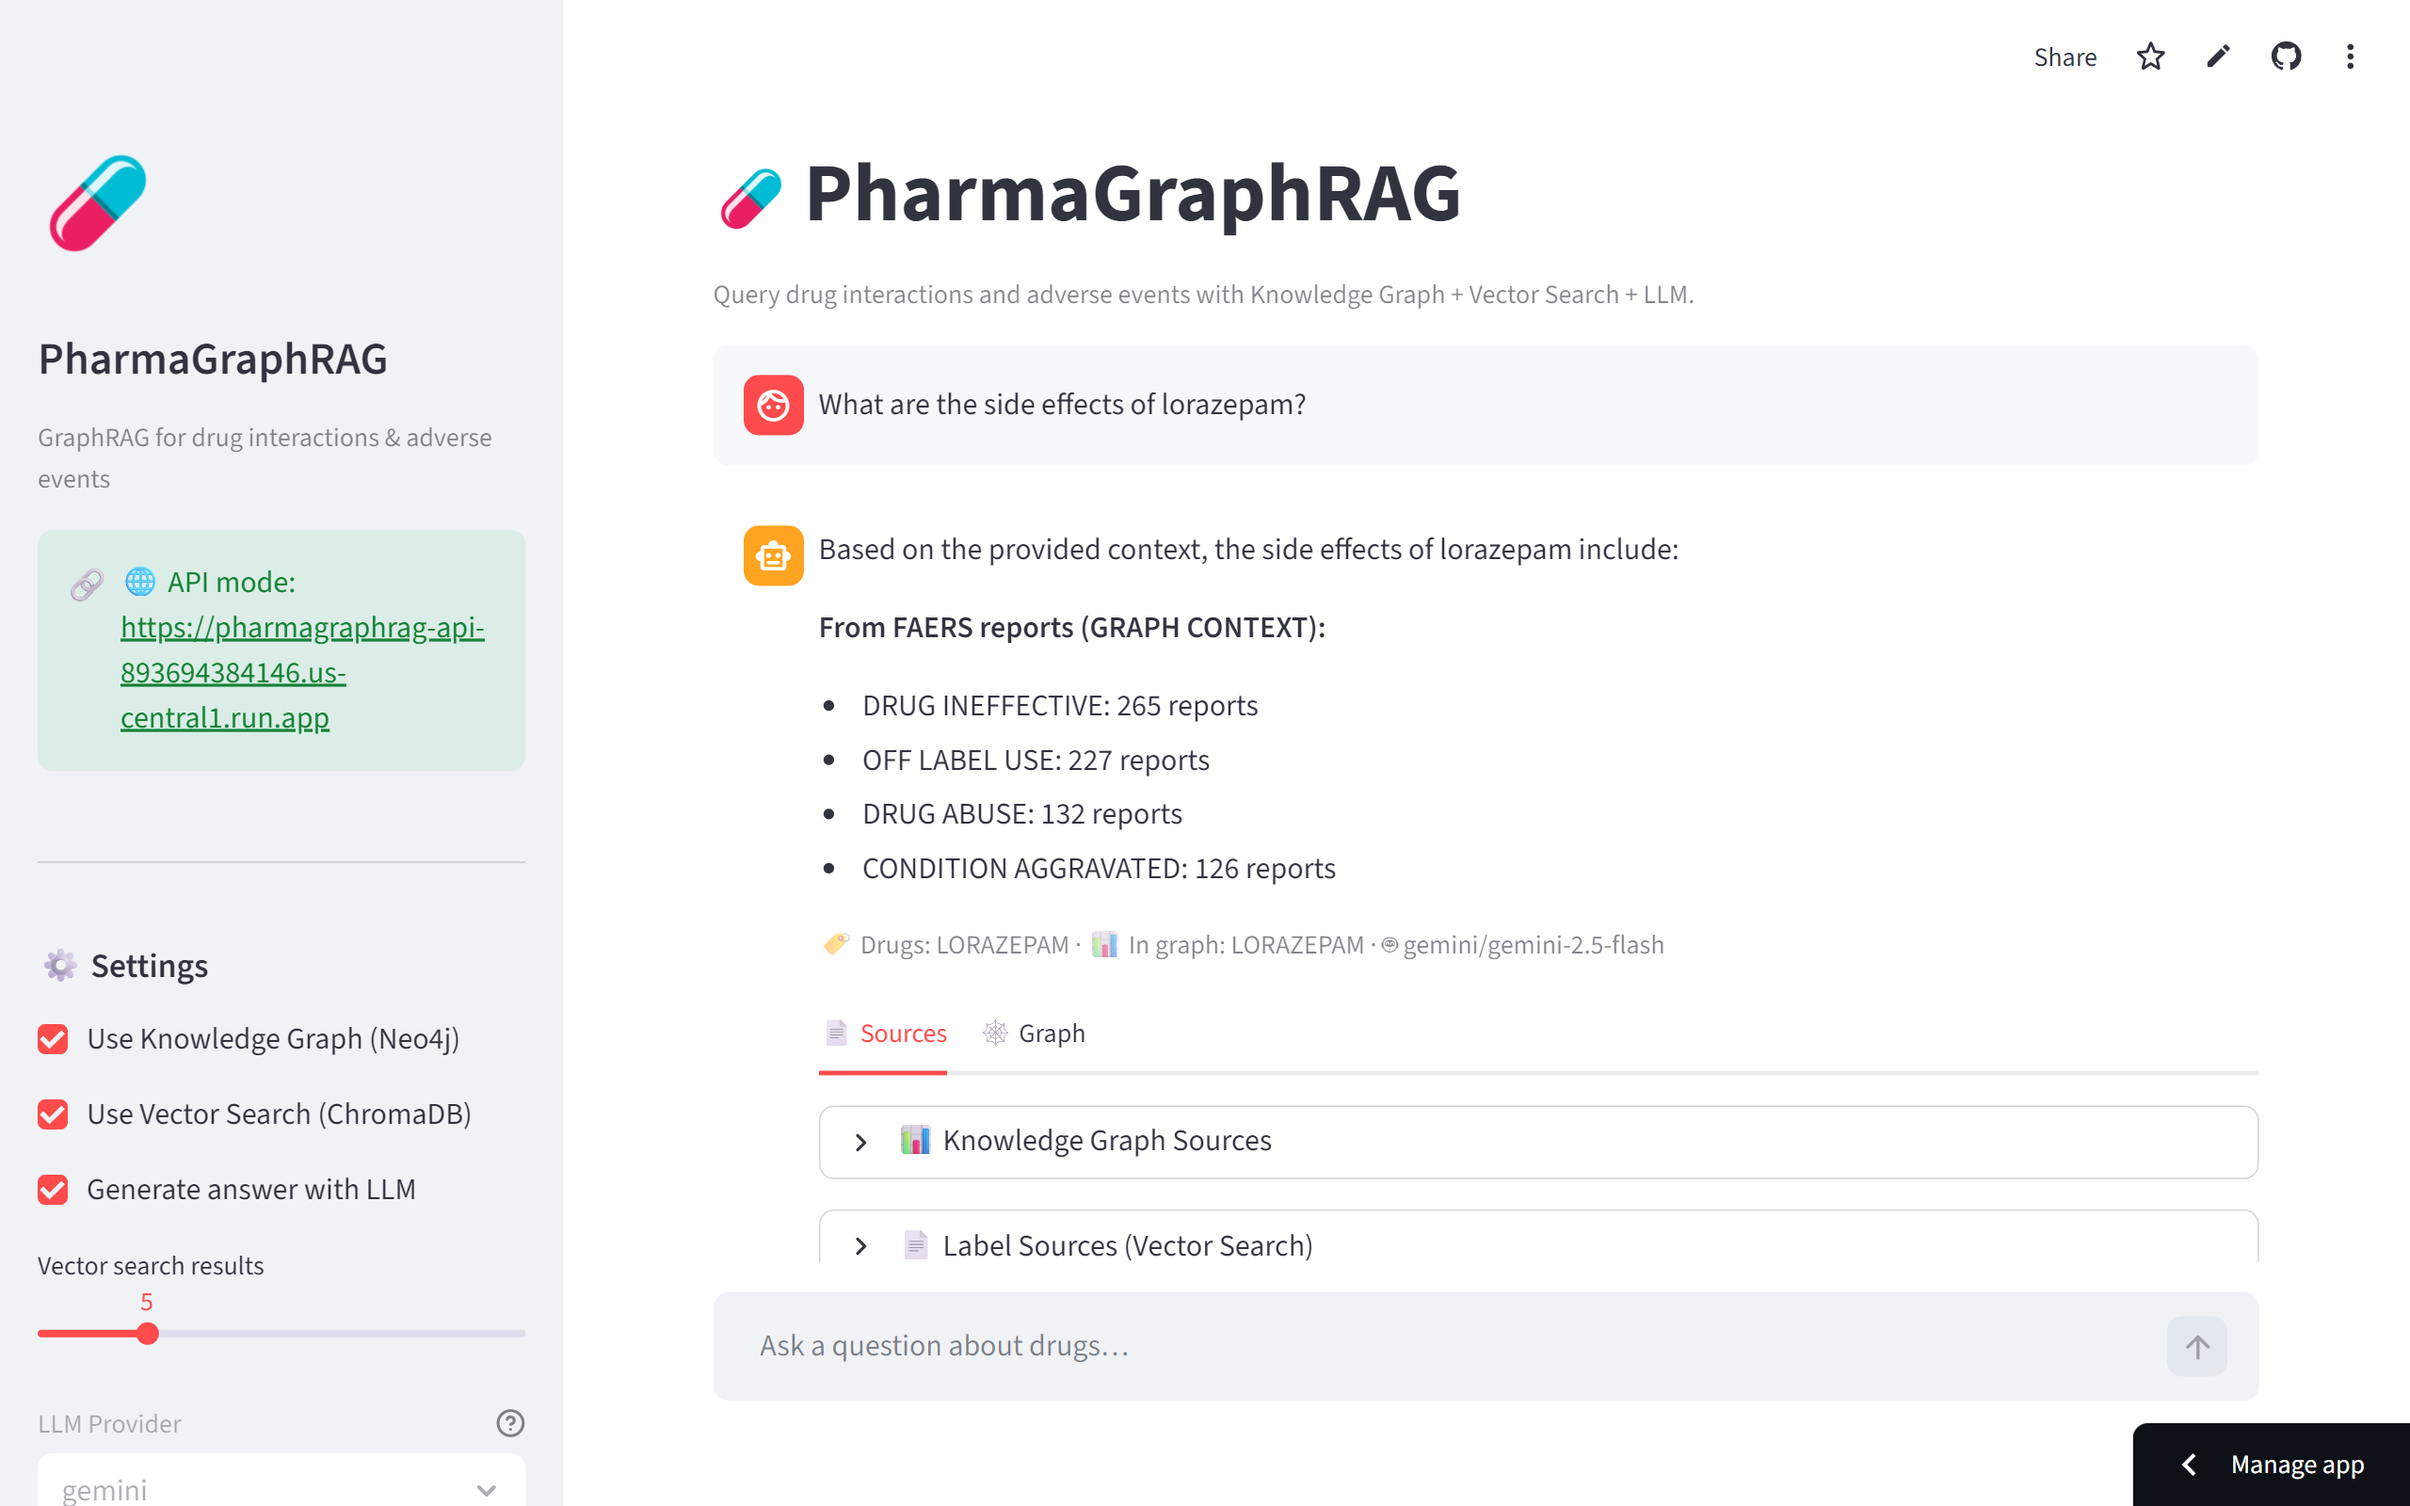
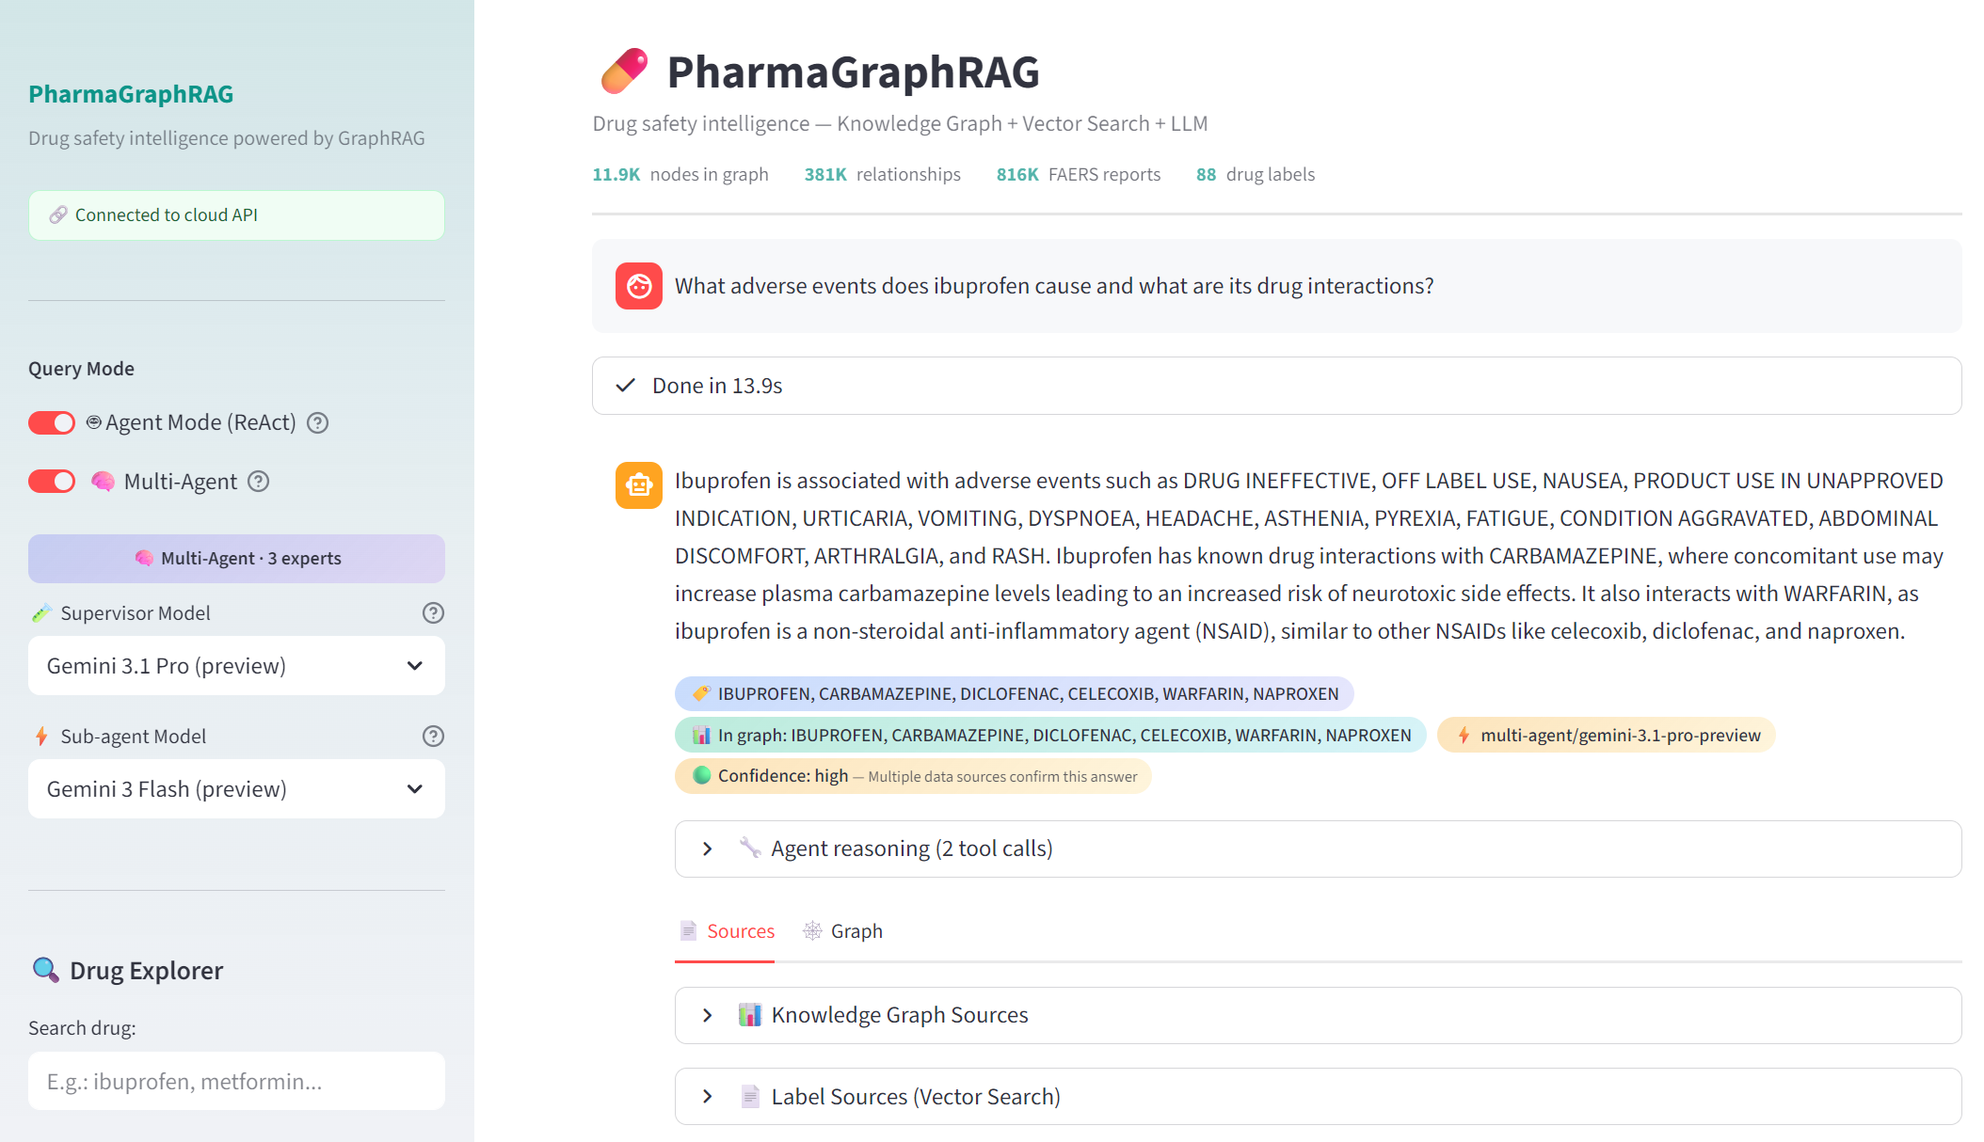
docs: update Gemini to Tier 1, redesign screenshot layout (chat-ui hero)

diff --git a/.github/copilot-instructions.md b/.github/copilot-instructions.md
@@ -92,7 +92,7 @@ FDA FAERS (CSV) + DailyMed (API)
 - **Knowledge Graph**: Neo4j 5 Community (Docker container `pharmagraphrag-neo4j`)
 - **Vector Store**: ChromaDB (embedded, persisted at `data/chroma/`)
 - **Embeddings**: sentence-transformers (all-MiniLM-L6-v2, 384 dimensions)
-- **LLM Primary**: Google Gemini API (free tier, `google-genai` SDK >= 1.64.0)
+- **LLM Primary**: Google Gemini API (Tier 1, `google-genai` SDK >= 1.64.0)
 - **LLM Backup**: Ollama + Llama 3 / Mistral (local, `ollama` SDK >= 0.4)
 - **Agent Framework**: LangGraph + LangChain (ReAct agent with tool calling)
 - **Entity Matching**: rapidfuzz >= 3.14.3 (fuzzy string matching)
@@ -308,7 +308,7 @@ PharmaGraphRAG/
 
 1. **Neo4j over RDFLib**: Learning new skill (more marketable). Graph database provides native traversal.
 2. **ChromaDB over Pinecone/Qdrant**: Embedded (no extra infra), SQLite-backed, good enough for portfolio scale.
-3. **Gemini API over OpenAI**: Free tier is generous. Ollama as local backup removes vendor lock-in.
+3. **Gemini API over OpenAI**: Tier 1 ($10/month) gives generous quotas (Flash 10K RPD, Pro 1K RPD). Ollama as local backup removes vendor lock-in.
 4. **google-genai over google-generativeai**: The `google-generativeai` SDK is deprecated. We use `google-genai >= 1.64.0` with `google.genai.Client` and `types.GenerateContentConfig`.
 5. **Dual retrieval (graph + vector)**: The core differentiator. Graph provides structured context (relationships), vector provides unstructured context (text chunks). Merging both gives better answers than either alone.
 6. **sentence-transformers over OpenAI embeddings**: Free, local, fast. all-MiniLM-L6-v2 is the standard baseline.
@@ -395,7 +395,7 @@ The system is deployed on a distributed free-tier architecture:
 - **Streamlit Cloud**: reads `API_URL` from `st.secrets`, switches to HTTP mode (calls Cloud Run API instead of local imports). Uses `uv sync` from `uv.lock`. Main file: `src/pharmagraphrag/ui/app.py`.
 - **Cloud Run**: Docker image with CPU-only PyTorch + baked-in ChromaDB + pre-cached embedding model. `Dockerfile.cloudrun` uses multi-stage build. Min instances=0 (scale to zero), max=2. Cold start ~50s, warm ~4.5s.
 - **Neo4j Aura**: Free tier (200K nodes, 400K rels). Data migrated via `scripts/migrate_neo4j.py`. Auto-pauses after 3 days inactivity.
-- **Gemini API**: `GEMINI_API_KEY` set as Cloud Run env var. Free tier: 15 RPM.
+- **Gemini API**: `GEMINI_API_KEY` set as Cloud Run env var. Tier 1: Flash 10K RPD, Pro 1K RPD.
 
 ### Deployment Pipeline (CD)
 - **Trigger**: GitHub Actions `deploy.yml` on version tags (`v*`)

diff --git a/README.md b/README.md
@@ -30,32 +30,27 @@ A production-ready question-answering system that combines a **pharmaceutical kn
 
 ## Screenshots
 
+**💬 Chat Interface — Multi-Agent Mode with Model Selector**
+
+<img src="assets/screenshots/chat-ui.png" width="100%" alt="Chat UI — Multi-agent response with model selector, confidence levels, and follow-up suggestions" />
+
 <table>
 <tr>
-<td width="50%">
+<td width="33%">
 
-**💬 Chat Interface**
-
-<img src="assets/screenshots/chat-ui.png" width="100%" alt="Chat UI — Ask natural language questions, get grounded answers" />
-
-</td>
-<td width="50%">
-
-**🔗 Knowledge Graph Visualization**
+**🔗 Graph Visualization**
 
 <img src="assets/screenshots/graph-viz.png" width="100%" alt="Graph Visualization — Interactive drug-event relationship graph" />
 
 </td>
-</tr>
-<tr>
-<td width="50%">
+<td width="33%">
 
-**📊 Source Evidence Panel**
+**📊 Source Evidence**
 
 <img src="assets/screenshots/sources-panel.png" width="100%" alt="Sources Panel — Transparent evidence from FAERS and drug labels" />
 
 </td>
-<td width="50%">
+<td width="33%">
 
 **⚡ FastAPI Swagger**
 
